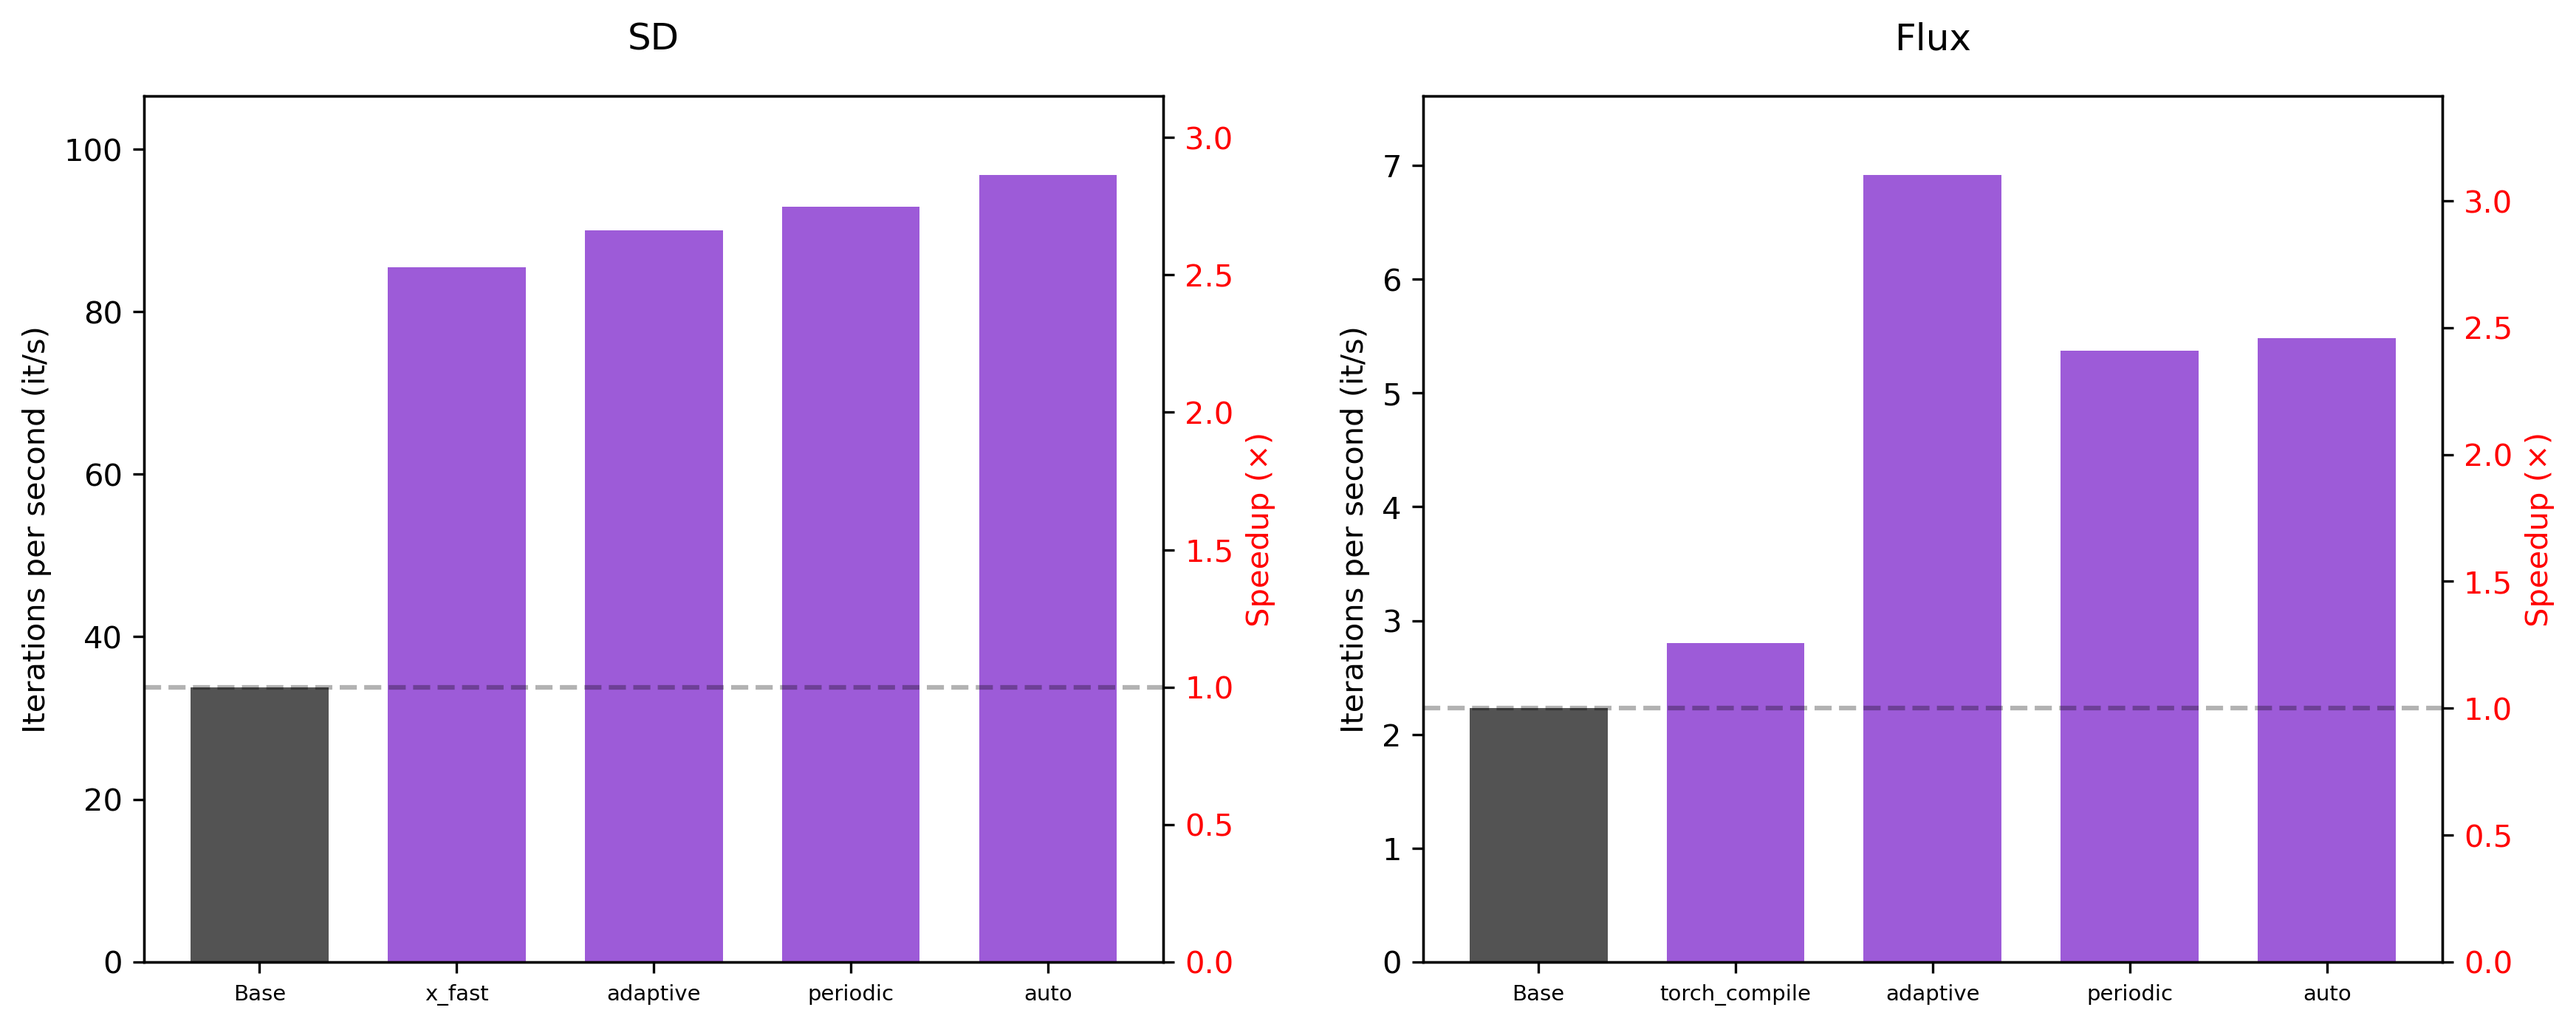
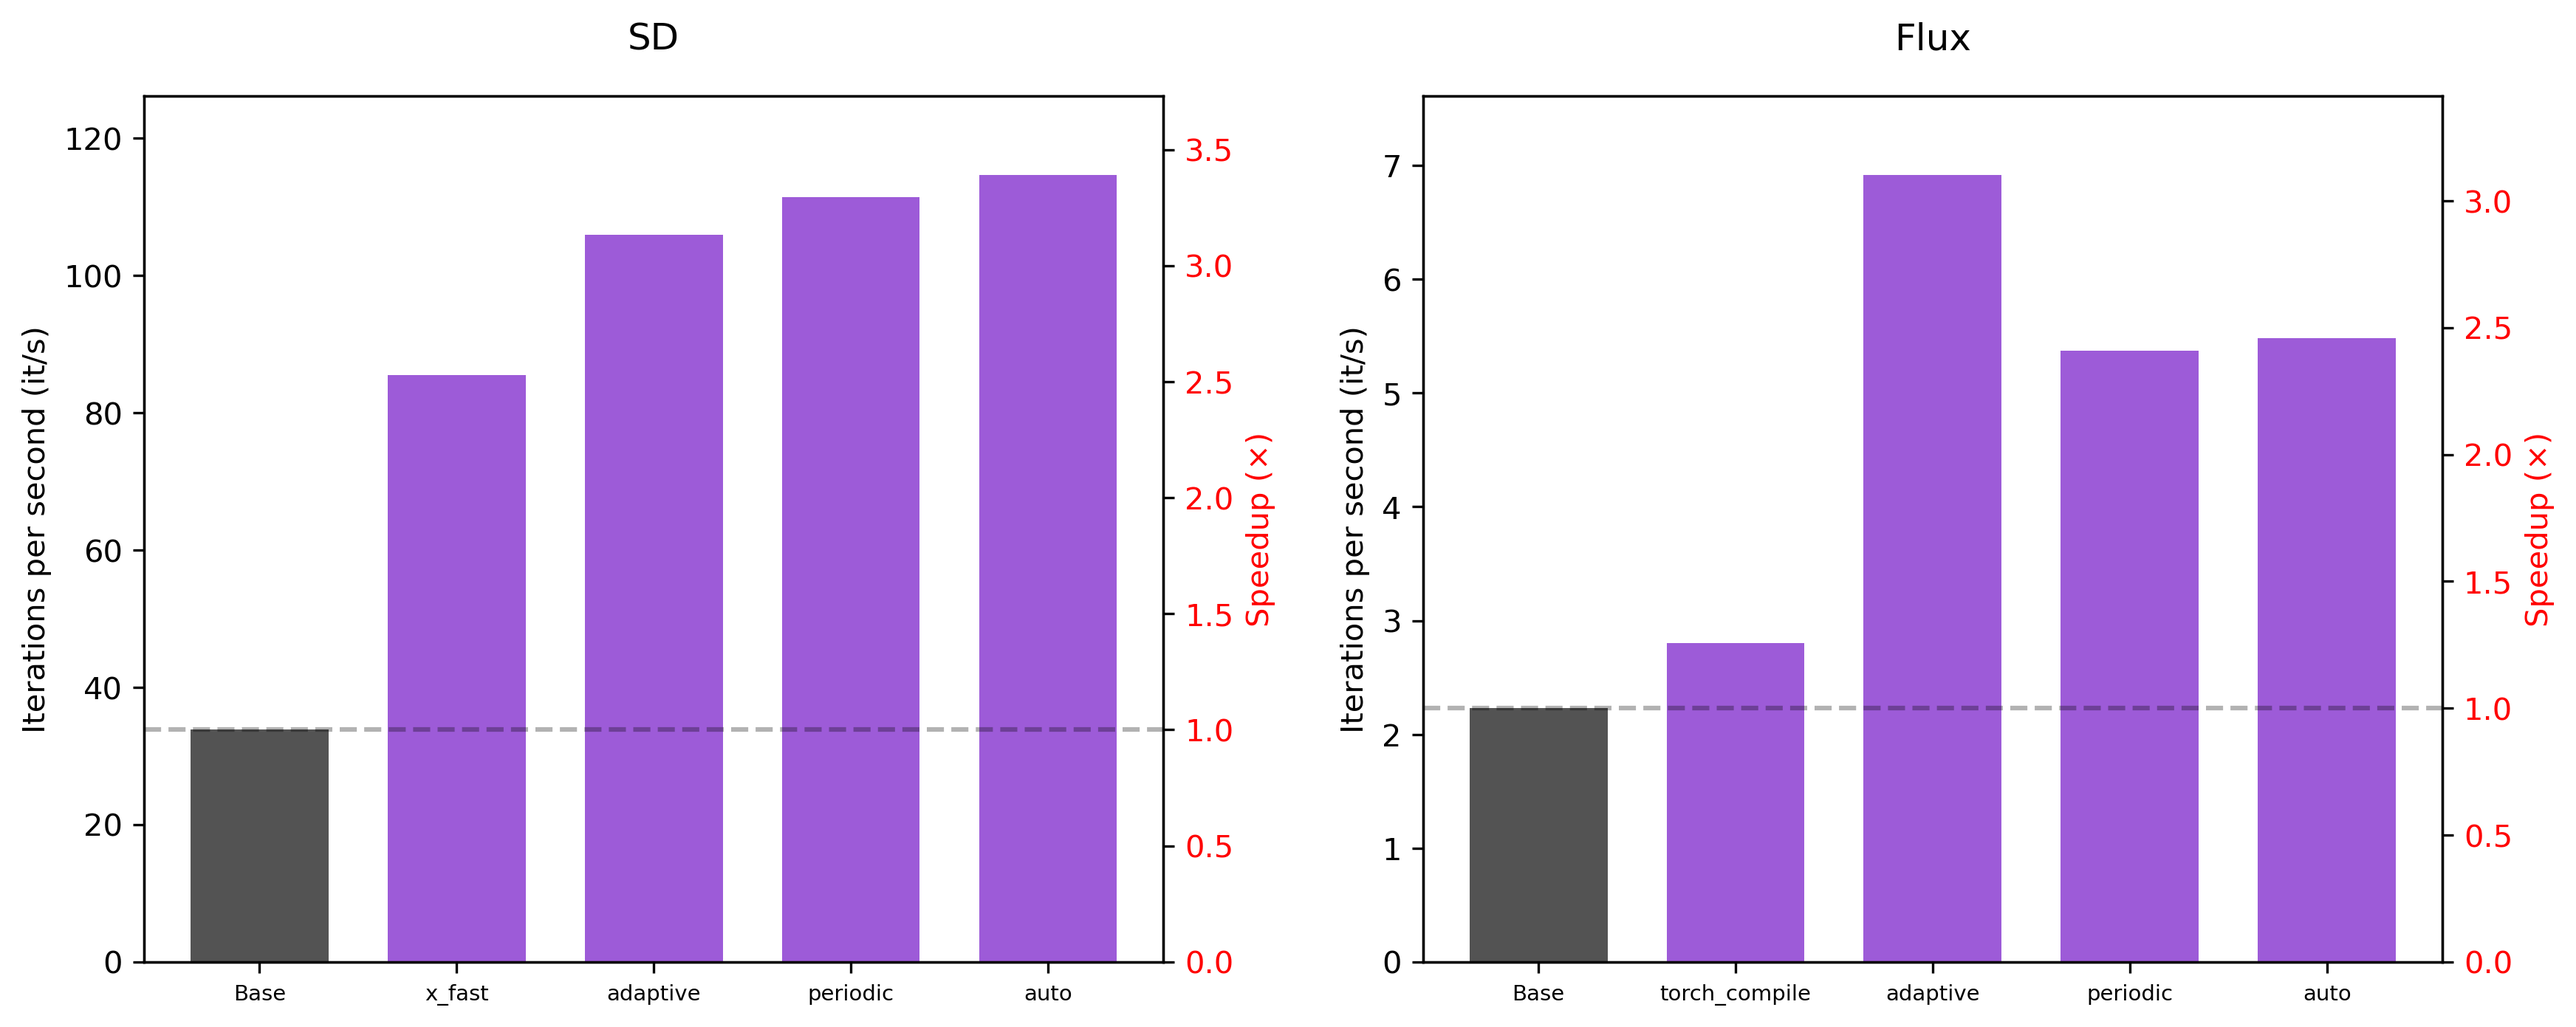
Feat: add stable-fast support (#22)
* feat: add stable fast option; rename compilation class

* docs: update workflows

* docs: update figures

* docs: update README

diff --git a/cache_nodes.py b/cache_nodes.py
@@ -75,7 +75,7 @@ class CacheModelAdaptive(CacheModelMixin):
                     "STRING",
                     {
                         "default": "torch_compile",
-                        "options": ["torch_compile", "none"],
+                        "options": ["torch_compile", "stable_fast", "none"],
                     },
                 ),
             }
@@ -120,7 +120,7 @@ class CacheModelPeriodic(CacheModelMixin):
                     "STRING",
                     {
                         "default": "torch_compile",
-                        "options": ["torch_compile", "none"],
+                        "options": ["torch_compile", "stable_fast", "none"],
                     },
                 ),
             }
@@ -163,7 +163,7 @@ class CacheModelAuto(CacheModelMixin):
                     "STRING",
                     {
                         "default": "torch_compile",
-                        "options": ["torch_compile", "none"],
+                        "options": ["torch_compile", "stable_fast", "none"],
                     },
                 ),
             }

diff --git a/__init__.py b/__init__.py
@@ -8,17 +8,17 @@ NODE_DISPLAY_NAME_MAPPINGS = {}
 
 try:
     from .cache_nodes import CacheModelAdaptive, CacheModelAuto, CacheModelPeriodic
-    from .compile_node import CompileModel
+    from .compile_node import PrunaCompileModel
 
     PRUNA_NODE_CLASS_MAPPINGS = {
-        "CompileModel": CompileModel,
+        "PrunaCompileModel": PrunaCompileModel,
         "CacheModelAdaptive": CacheModelAdaptive,
         "CacheModelPeriodic": CacheModelPeriodic,
         "CacheModelAuto": CacheModelAuto,
     }
 
     PRUNA_NODE_DISPLAY_NAME_MAPPINGS = {
-        "CompileModel": "Pruna Compile",
+        "PrunaCompileModel": "Pruna Compile",
         "CacheModelAdaptive": "Pruna Cache Adaptive",
         "CacheModelPeriodic": "Pruna Cache Periodic",
         "CacheModelAuto": "Pruna Cache Auto",

diff --git a/compile_node.py b/compile_node.py
@@ -13,7 +13,7 @@ except ImportError:
         print("Neither pruna_pro nor pruna are installed, skipping")
 
 
-class CompileModel:
+class PrunaCompileModel:
     @classmethod
     def INPUT_TYPES(s):
         return {

diff --git a/README.md b/README.md
@@ -28,11 +28,11 @@ Currently, running our nodes requires a **Linux system with a GPU**. To setup yo
 
 - To install **Pruna**:
   ```bash
-  pip install pruna==0.2.2
+  pip install pruna==0.2.3
   ```
 - To install **Pruna Pro**:
   ```bash
-  pip install pruna_pro==0.2.2.post2
+  pip install pruna_pro==0.2.3
   ```
 
 **To use Pruna Pro**, you also need to: 
@@ -40,9 +40,9 @@ Currently, running our nodes requires a **Linux system with a GPU**. To setup yo
 ```bash
 export PRUNA_TOKEN=<your_token_here>
 ```
-2. [*Optional*] If you want to use the the `x-fast` compiler, you need to install additional dependencies:
+2. [*Optional*] If you want to use the the `x-fast` or `stable-fast` compiler, you need to install additional dependencies:
 ```bash
-pip install pruna[stable-fast]==0.2.2
+pip install pruna[stable-fast]==0.2.3
 ``` 
 
 
@@ -147,7 +147,7 @@ Below, is a summary of the available parameters for each caching node.
 
 | Parameter | Options | Description |
 |-----------|---------|-------------|
-| `compiler` | `torch_compile`, `none` | Compiler to apply on top of caching |
+| `compiler` | `torch_compile`, `none`, `stable_fast` | Compiler to apply on top of caching |
 | `cache_mode` | `default`, `taylor` | Caching mode (`default` reuses previous steps, `taylor` uses Taylor expansion for more accurate approximation) |
 
 **Node-Specific Parameters:**
@@ -190,9 +190,10 @@ using 28 steps. We compare the iterations per second (as reported by `ComfyUI`) 
 ![Performance](./images/its_comparison_28.png)
 ![Performance](./images/end2end_time_comparison_28.png)
 
-**Hyperparameters**: For caching, we used the `taylor` mode and the `torch_compile` compiler, along with the default hyperparameters. 
+**Hyperparameters**:  For caching, we used the `taylor` mode. The compiler was set to `torch_compile` for Flux and `stable_fast` for SD. All other hyperparameters remained at their default values, with one exception: for SD with 28 denoising steps, we set the threshold to 0.02 in the adaptive caching node.
 
-Note that for Stable Diffusion models, `x_fast` typically delivers better performance than `torch_compile`, whereas for Flux models, `torch_compile` tends to outperform `x_fast`. 
+
+
 
 
 ## Contact
